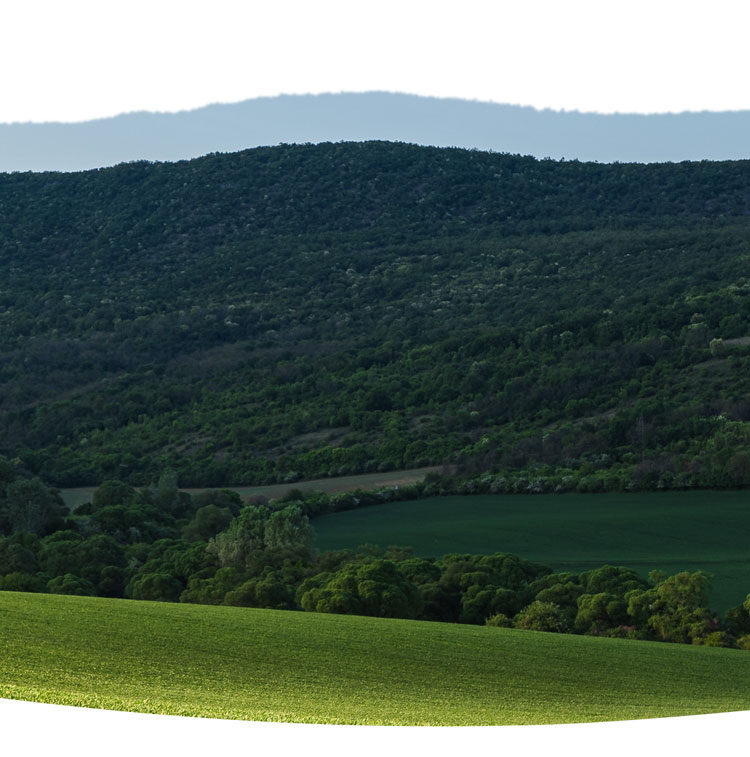
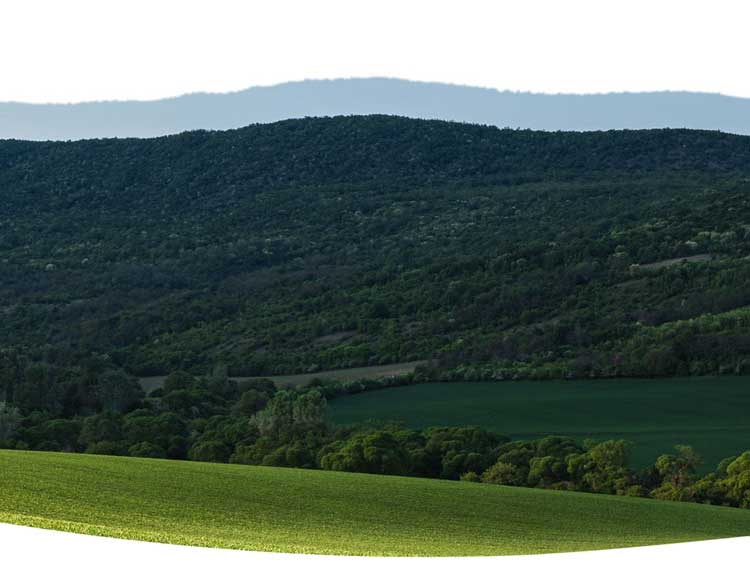
页面修改

diff --git a/src/views/ProductsMPage.vue b/src/views/ProductsMPage.vue
@@ -118,7 +118,7 @@
     <div class="functionally-block" ref="boxRef">
       <div class="pic">
         <div class="pic-block" :class="{ show }">
-          <img class="pic-img" src="../assets/images/dog-pic-1.jpg" alt="">
+          <img class="pic-img" src="../assets/mimgs/product_bg_04.jpg" alt="">
         </div>
         <div class="text">
           <div class="text-1"> Functionally<br>
@@ -429,19 +429,18 @@ onBeforeUnmount(() => {
 
     .pic {
       position: relative;
-      width: 90%;
+      width: 100%;
       height: 21.3333rem;
       margin: 0 auto;
 
       .pic-block {
         position: absolute;
-        width: 18.6667rem;
-        left: -8rem;
+        width: 100%;
+        left: 0;
         top: 16.08rem;
         opacity: 1;
         transition: all 0.8s ease-out;
         overflow: hidden;
-        border-radius: 0.4rem;
 
         &.show {
           opacity: 1;
@@ -459,9 +458,9 @@ onBeforeUnmount(() => {
       .text {
         box-sizing: border-box;
         position: absolute;
-        width: 94%;
+        width: 90%;
         height: 11.6rem;
-        left: 3%;
+        left: 5%;
         top: 4.2667rem;
         padding: 1.0667rem;
         border-radius: 0.5333rem;
@@ -499,6 +498,15 @@ onBeforeUnmount(() => {
         left: 50%;
         margin-left: -1.0667rem;
         animation: spin 8s linear infinite;
+      }
+            @keyframes spin {
+        from {
+          transform: rotate(0deg);
+        }
+
+        to {
+          transform: rotate(360deg);
+        }
       }
     }
   }

diff --git a/src/views/OurstoryMPage.vue b/src/views/OurstoryMPage.vue
@@ -193,7 +193,7 @@ onBeforeUnmount(() => {
     color: #fff;
 
     .hero-bg {
-      height: 10.0000rem;
+      height: 7.75rem;
       overflow: hidden;
 
       img {
@@ -214,7 +214,7 @@ onBeforeUnmount(() => {
       bottom: 1.3333rem;
       left: 0.9333rem;
       font-family: "RedHatDisplay-Black";
-      font-size: 1.6000rem;
+      font-size: 1.2000rem;
       line-height: 1;
       text-align: left;
       width: 70%;
@@ -272,14 +272,14 @@ onBeforeUnmount(() => {
 
       .text-sub1 {
         font-family: "RedHatDisplay-Black";
-        font-size: 1.3333rem;
+        font-size: 1rem;
         line-height: 1;
         text-align: left;
         color: #212995;
 
         span {
           font-family: "RedHatDisplay-Medium";
-          font-size: 0.6667rem;
+          font-size: 0.5rem;
         }
       }
 

diff --git a/src/components/HeaderPage.vue b/src/components/HeaderPage.vue
@@ -85,7 +85,7 @@ const goWhy = () => {
   router.push({ name: 'Healthy' });
 }
 const goStory = () => {
-  router.push({ name: 'ourstory' });
+  router.push({ name: 'Ourstory' });
 }
 const goSupport = () => {
   router.push({ name: 'Support' });
